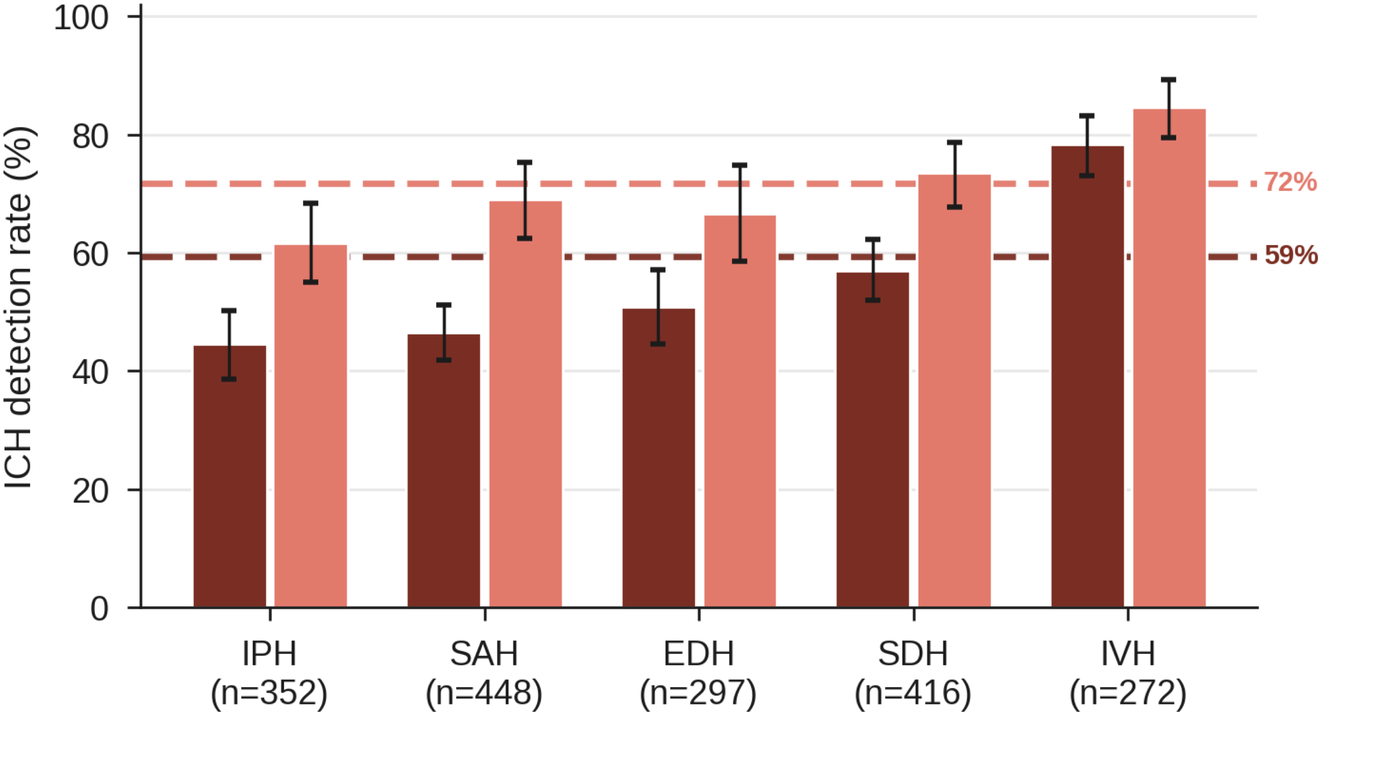
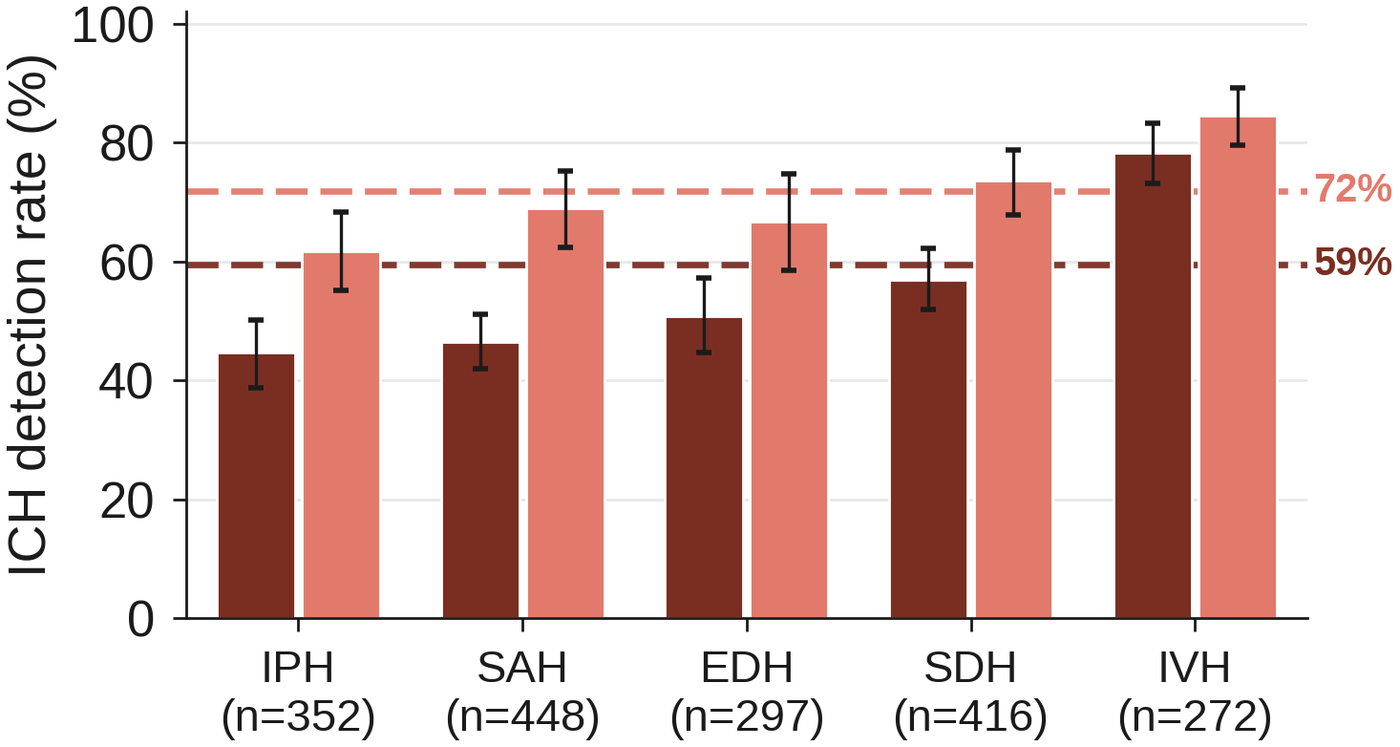
Larger-font panels for detectability, prediction drivers and co-occurring findings

diff --git a/index.html b/index.html
@@ -262,17 +262,17 @@
     <span class="legend"><i class="sw" style="background:var(--pe)"></i>PE-Detector-1</span>
     <span class="legend"><i class="sw" style="background:var(--pe2)"></i>PE-Detector-2</span></div>
   <div class="grid3">
-    <figure><p class="panel-title">By location</p><img src="assets/figs/fig4_pe_location.png?v=e65569f079" alt="PE detection rate by anatomical location" loading="lazy"></figure>
-    <figure><p class="panel-title">By severity</p><img src="assets/figs/fig4_pe_severity.png?v=3256845c91" alt="PE detection rate by severity" loading="lazy"></figure>
-    <figure><p class="panel-title">By embolus volume</p><img src="assets/figs/fig4_pe_volume.png?v=882c0e5a4b" alt="PE detection rate by embolus volume" loading="lazy"></figure>
+    <figure><p class="panel-title">By location</p><img src="assets/figs/fig4_pe_location.png?v=bb6f7efdc4" alt="PE detection rate by anatomical location" loading="lazy"></figure>
+    <figure><p class="panel-title">By severity</p><img src="assets/figs/fig4_pe_severity.png?v=2073c1f75d" alt="PE detection rate by severity" loading="lazy"></figure>
+    <figure><p class="panel-title">By embolus volume</p><img src="assets/figs/fig4_pe_volume.png?v=fd2351896b" alt="PE detection rate by embolus volume" loading="lazy"></figure>
   </div>
   <div class="row-label"><span class="ich">Intracranial hemorrhage</span>
     <span class="legend"><i class="sw" style="background:var(--ich)"></i>ICH-Detector-1</span>
     <span class="legend"><i class="sw" style="background:var(--ich2)"></i>ICH-Detector-2</span></div>
   <div class="grid3">
-    <figure><p class="panel-title">By number of co-occurring subtypes</p><img src="assets/figs/fig4_ich_nsubtypes.png?v=613b3ed35f" alt="ICH detection rate by number of co-occurring subtypes" loading="lazy"></figure>
-    <figure><p class="panel-title">By subtype</p><img src="assets/figs/fig4_ich_subtype.png?v=dd3fa47dfe" alt="ICH detection rate by subtype" loading="lazy"></figure>
-    <figure><p class="panel-title">By hemorrhage volume</p><img src="assets/figs/fig4_ich_volume.png?v=f6ea7b6151" alt="ICH detection rate by hemorrhage volume" loading="lazy"></figure>
+    <figure><p class="panel-title">By number of co-occurring subtypes</p><img src="assets/figs/fig4_ich_nsubtypes.png?v=3492794120" alt="ICH detection rate by number of co-occurring subtypes" loading="lazy"></figure>
+    <figure><p class="panel-title">By subtype</p><img src="assets/figs/fig4_ich_subtype.png?v=a17ea10372" alt="ICH detection rate by subtype" loading="lazy"></figure>
+    <figure><p class="panel-title">By hemorrhage volume</p><img src="assets/figs/fig4_ich_volume.png?v=2c63cfb24a" alt="ICH detection rate by hemorrhage volume" loading="lazy"></figure>
   </div>
   <div class="wrap" style="padding:0">
     <p class="hint">Click any figure to enlarge.</p>
@@ -312,15 +312,15 @@
   <details>
     <summary>Show the odds-ratio and co-occurring-finding figures</summary>
     <div class="grid2">
-      <figure><p class="panel-title">PE: lesion properties</p><img src="assets/figs/fig5_pe_drivers.png?v=129787a587" alt="Forest plot of adjusted odds ratios for PE detection" loading="lazy"></figure>
-      <figure><p class="panel-title">ICH: lesion properties</p><img src="assets/figs/fig5_ich_drivers.png?v=644ca18c76" alt="Forest plot of adjusted odds ratios for ICH detection" loading="lazy"></figure>
+      <figure><p class="panel-title">PE: lesion properties</p><img src="assets/figs/fig5_pe_drivers.png?v=fb3d593bee" alt="Forest plot of adjusted odds ratios for PE detection" loading="lazy"></figure>
+      <figure><p class="panel-title">ICH: lesion properties</p><img src="assets/figs/fig5_ich_drivers.png?v=029c1241ce" alt="Forest plot of adjusted odds ratios for ICH detection" loading="lazy"></figure>
     </div>
     <figcaption>Multivariable odds ratios (95% CI) for detection from a cluster-robust logistic model. References: PE
     lobar location, mild severity, extensive burden, complete occlusion, indeterminate shape; ICH
     intraparenchymal hemorrhage, single subtype.</figcaption>
     <div class="grid2" style="margin-top:16px">
-      <figure><p class="panel-title">PE: co-occurring findings</p><img src="assets/figs/fig6a_pe_cooccurring.png?v=5a5609f23d" alt="Forest plot of co-occurring findings and PE detection" loading="lazy"></figure>
-      <figure><p class="panel-title">ICH: volume within subtype (ICH-Detector-1 left, ICH-Detector-2 right)</p><img src="assets/figs/fig6b_ich_volume_subtype.png?v=ee656462b6" alt="ICH detection by volume within each subtype" loading="lazy">
+      <figure><p class="panel-title">PE: co-occurring findings</p><img src="assets/figs/fig6a_pe_cooccurring.png?v=317c43d10b" alt="Forest plot of co-occurring findings and PE detection" loading="lazy"></figure>
+      <figure><p class="panel-title">ICH: volume within subtype (ICH-Detector-1 left, ICH-Detector-2 right)</p><img src="assets/figs/fig6b_ich_volume_subtype.png?v=f708b9ae0e" alt="ICH detection by volume within each subtype" loading="lazy">
         <img src="assets/figs/legend_ich_volume.png?v=ae9ff303b2" alt="Volume bins: under 5 mL, 5 to 15 mL, 15 to 30 mL, 30 to 50 mL" style="border:none;max-width:420px;margin:6px auto 0" loading="lazy"></figure>
     </div>
     <figcaption>Left: adjusted associations between co-occurring thoracic findings and PE detection (generalized
